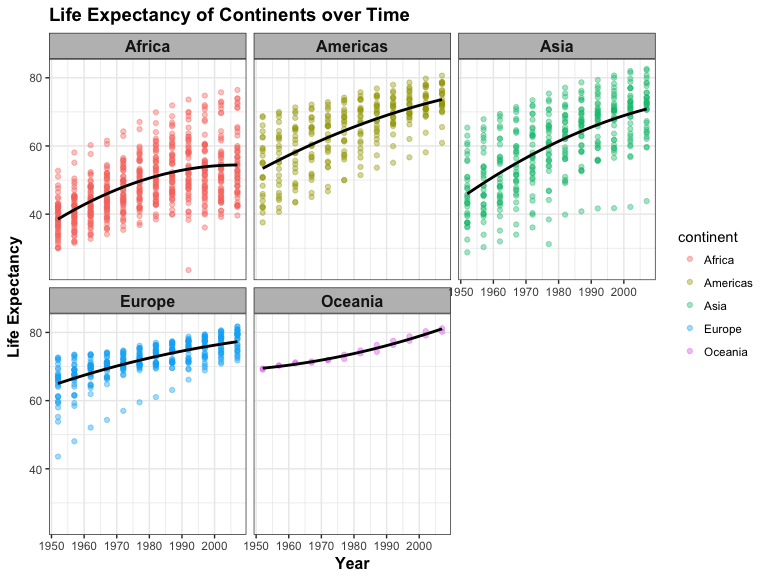
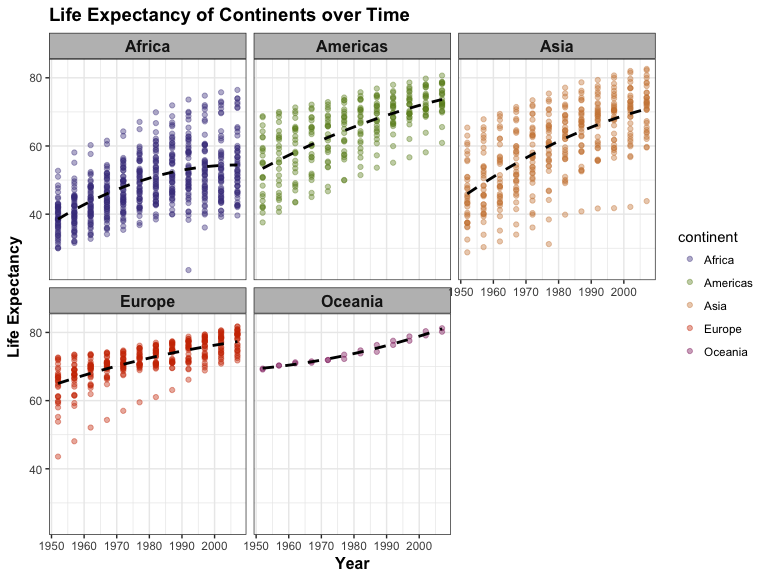
changed colours, boxplot, dashed line

diff --git a/hw03/hw03_ggplot_dplyr.md b/hw03/hw03_ggplot_dplyr.md
@@ -34,8 +34,6 @@ library(knitr)
 Task 1: Get the maximum and minimum of GDP per capita for all continents
 ------------------------------------------------------------------------
 
-#### Table
-
 To do this, I first grouped the gapminder data by continent using the `group_by` function. Then, I summarized the data based on what we're interested in finding: the minimum and maximum GDP per capita. Below is the code and the table of results:
 
 ``` r
@@ -74,19 +72,23 @@ Something I need to investigate further. I didn't notice a difference in the out
 I thought using a boxplot would be a good option to visualise these results, as a bar graph wouldn't be able to distinguish the data appropriately (i.e. it would just be one bar per continent, minimum GDP per capita to maximum GDP per capita). I wanted a plot that would visualise the range of GDP per capita for each continent.
 
 ``` r
-p1 <- boxplot(gdpPercap ~ continent, data=gapminder, col=c("blue", "green", "yellow", "orange", "red"))
+ggplot(gapminder, aes(continent, gdpPercap, fill=continent)) +
+  geom_boxplot() +
+  scale_fill_manual(values=c("darkslateblue", "olivedrab", "tan3", "orangered3", "maroon4")) + 
+  labs(x = "Continent", y = "GDP per capita", title = "Boxplot of GDP per capita for Continents") + 
+  theme(legend.position = "none")
 ```
 
 ![](hw03_ggplot_dplyr_files/figure-markdown_github-ascii_identifiers/unnamed-chunk-4-1.png)
 
-The boxplot is decent, however I don't think the take-home information is as clear as it could be. This is likely due to the huge range of GDP per capita in the continent of Asia.
+The boxplot is decent, however I don't think the take-home information is as clear as it could be. This is likely due to the huge range of GDP per capita in the continent of Asia. In terms of visualization, I found some colour codes online (link is below) and I decided to leave the legend out as it's self-explanatory that each continent is coloured separately.
 
 I then thought it would be good to try and use ggplot to plot both the minimum and the maximum GDP per capita points for each continent. The minimum could be one colour and the maximum could be a different colour so we can distinguish more easily between the continents. This took me a while but I think I figured it out:
 
 ``` r
 ggplot(task1, aes(x=continent)) +
-  geom_point(aes(y=min_gdpPercap), colour = "red") +
-  geom_point(aes(y=max_gdpPercap), colour = "green") +
+  geom_point(aes(y=min_gdpPercap), colour = "tomato3", size = 5) +
+  geom_point(aes(y=max_gdpPercap), colour = "palegreen4", size = 5) +
   labs(y = "GDP per capita", x = "Continent", title = "Maximum and Minimum GDP per capita for the Continents")
 ```
 
@@ -140,6 +142,7 @@ This gives us our information which we will now plot.
 gapminder %>% 
   ggplot(aes(x=continent, y=gdpPercap)) + 
   geom_boxplot(aes(fill = continent), show.legend = FALSE) + 
+  scale_fill_manual(values=c("darkslateblue", "olivedrab", "tan3", "orangered3", "maroon4")) +
   labs(x = "Country", y = "GDP per capita", title = "Spread of GDP per capita Within Continents")
 ```
 
@@ -198,7 +201,9 @@ The results are here, however it is very hard to visualize this data, especially
 #### Visualization
 
 ``` r
-ggplot(task3, aes(year, lifeExp, color=continent)) + geom_smooth(method="loess", se=FALSE) + labs(x = "Year", y = "Life Expectancy", title = "Life Expectancy Over Time for the Continents")
+ggplot(task3, aes(year, lifeExp, colour=continent)) + geom_smooth(method="loess", se=FALSE) + 
+  scale_colour_manual(values=c("darkslateblue", "olivedrab", "tan3", "orangered3", "maroon4")) +
+  labs(x = "Year", y = "Life Expectancy", title = "Life Expectancy Over Time for the Continents")
 ```
 
 ![](hw03_ggplot_dplyr_files/figure-markdown_github-ascii_identifiers/unnamed-chunk-11-1.png)
@@ -211,7 +216,8 @@ It might be interesting to see the individual points composing these lines, and 
 plot3 <- ggplot(task3, aes(year, lifeExp, colour = continent)) +
     facet_wrap(~ continent) +
     geom_point(alpha=0.4) + 
-  geom_smooth(method='loess', colour = "black", se=FALSE, span = 5) +
+  geom_smooth(method='loess', colour = "black", se=FALSE, span = 5, linetype = "dashed") +
+  scale_colour_manual(values=c("darkslateblue", "olivedrab", "tan3", "orangered3", "maroon4")) +
   labs(x = "Year", y = "Life Expectancy", title = "Life Expectancy of Continents over Time")
 plot3 + theme_bw() +
     theme(strip.background = element_rect(fill="grey"), 
@@ -349,13 +355,14 @@ This table is not very informative on its own, and needs to be visualized using 
 #### Visualization
 
 ``` r
-plot4a <- ggplot(task4a, aes(year, lifeExp)) +
+plot4a <- ggplot(task4a, aes(year, lifeExp, colour=country)) +
     facet_wrap(~ country) +
     geom_point() + 
   geom_line() +
+  scale_colour_manual(values=c("darkslateblue", "dodgerblue4", "cyan4", "olivedrab", "seagreen3")) +
   labs(x = "Year", y = "Life Expectancy", title = "Life Expectancy of Sub-Saharan Africa Worst Affected by HIV/AIDS")
 plot4a + theme_bw() +
-    theme(strip.background = element_rect(fill="orange"))
+    theme(strip.background = element_rect(fill="palegoldenrod"))
 ```
 
 ![](hw03_ggplot_dplyr_files/figure-markdown_github-ascii_identifiers/unnamed-chunk-16-1.png)
@@ -446,13 +453,14 @@ knitr::kable(task4b, digits=2)
 Again, this table is not very informative on its own, and needs to be visualized using ggplot. I used basically the same code as earlier but with the dataset made for Northern African countries:
 
 ``` r
-plot4b <- ggplot(task4b, aes(year, lifeExp)) +
+plot4b <- ggplot(task4b, aes(year, lifeExp, colour=country)) +
     facet_wrap(~ country) +
     geom_point() + 
   geom_line() +
+  scale_colour_manual(values=c("orange2", "sienna2", "orangered2", "firebrick", "mediumvioletred")) +
   labs(x = "Year", y = "Life Expectancy", title = "Life Expectancy of Northern Africa Least Affected by HIV/AIDS")
 plot4b + theme_bw() +
-    theme(strip.background = element_rect(fill="orange"))
+    theme(strip.background = element_rect(fill="honeydew2"))
 ```
 
 ![](hw03_ggplot_dplyr_files/figure-markdown_github-ascii_identifiers/unnamed-chunk-18-1.png)
@@ -507,7 +515,9 @@ This tells us for each year, how many countries in each continent have an averag
 ggplot(task5, aes(year, number, colour = continent)) + 
   facet_wrap(~ continent) + 
   geom_point() + 
-  labs (x = "Year", y = "Number of Countries with Life Expectancy < 60", title = "Absolute Abundance of Countries with Low Life Expectancy over Time")
+  scale_colour_manual(values=c("darkslateblue", "olivedrab", "tan3", "orangered3", "maroon4")) +
+  labs (x = "Year", y = "Number of Countries with Life Expectancy < 60", title = "Absolute Abundance of Countries with Low Life Expectancy over Time") + 
+  theme(strip.background = element_rect(fill="rosybrown3"))
 ```
 
 ![](hw03_ggplot_dplyr_files/figure-markdown_github-ascii_identifiers/unnamed-chunk-21-1.png)
@@ -523,11 +533,13 @@ I found this homework fairly challenging, as I'm still grasping a handle on R an
 
 -   Limiting the Task 1 table to 2 decimal places, which would be appropriate for the audience. I figured out later that there is an argument in the 'kable' function that allows you to set digits, so I set it to 2 and was glad that the results are now displayed to 2 decimal places.
 
--   I'm not sure what the knitr::kable does to my tables, as I can't notice a difference. I will look into this further. I would like to get familiar with this and be able to customize my table outputs to make them more informative and aesthetic.
+-   I'm not sure what the knitr::kable does to my tables, as I can't notice a difference. I will look into this further. I would like to get familiar with this and be able to customize my table outputs to make them more informative and aesthetic. I think the difference can be seen in the github output, just maybe not in the console?
+
+-   Understanding the difference between colour= and fill=, both of which I used. For example, I tried using fill=continent for the visualization of Task 3, however the manual colours I chose using `scale_fill_manual` seemed to be overrided by something, as all continents came out blue. When I use colour=continent in the aes, R automatically distinguishes each continent by colour, so I then defined the colour by using `scale_colour_manual` followed by a vector of my colour choices. This seemed to work (I wanted my continent colours to be consistent throughout this entire exercise), but I need to more clearly understand the difference between colour= and fill= !
 
 -   I'm sure there is a more efficient way to compare the minimum and maximum GDP per capita on the same plot than the method I used - hopefully that will become clear soon!
 
--   My facetted plots for Task 3 look okay, however I wanted the smooth line to be black but with some transparency. I found changing the alpha value didn't do anything here.
+-   My facetted plots for Task 3 look okay, however I wanted the smooth line to be black but with some transparency. I found changing the alpha value didn't do anything here, and I would like to learn how to adjust the transparency of this.
 
 -   Determining how many countries had life expectancy below 60 for Task 5 took me a long time...there is no reason for that other than I just wasn't thinking straight. I realised the number of countries under this category would correspond to the length of rows of output, and once I realized that it made sense.
 
@@ -536,3 +548,11 @@ I found this homework fairly challenging, as I'm still grasping a handle on R an
 -   I enjoy the visualizations more than anything else, and though it takes a while I find it interesting to play with colours, scales, axis titles and different plotting styles. As a beginner myself I hope I ended up choosing appropriate styles that were both informative as well as visually easy to understand and pleasing.
 
 -   I tried out a few trends I thought would be interesting to visualize (e.g. Effect of South Asian tsunami on GDP per capita for the worst-affected countries) however the dataset wasn't appropriate for such visualizations and didn't have enough recent data to be able to really deduce a trend. It was a good experience nonetheless, and I used much of the same code to do Task 4, so it wasn't a complete waste of time!
+
+**Useful Links**
+
+-   ggplot [quick reference for colour and fill](http://sape.inf.usi.ch/quick-reference/ggplot2/colour)
+
+-   Customizing [boxplot axis labels](http://t-redactyl.io/blog/2016/04/creating-plots-in-r-using-ggplot2-part-10-boxplots.html) and [fill colour](http://www.r-graph-gallery.com/264-control-ggplot2-boxplot-colors/)
+
+-
